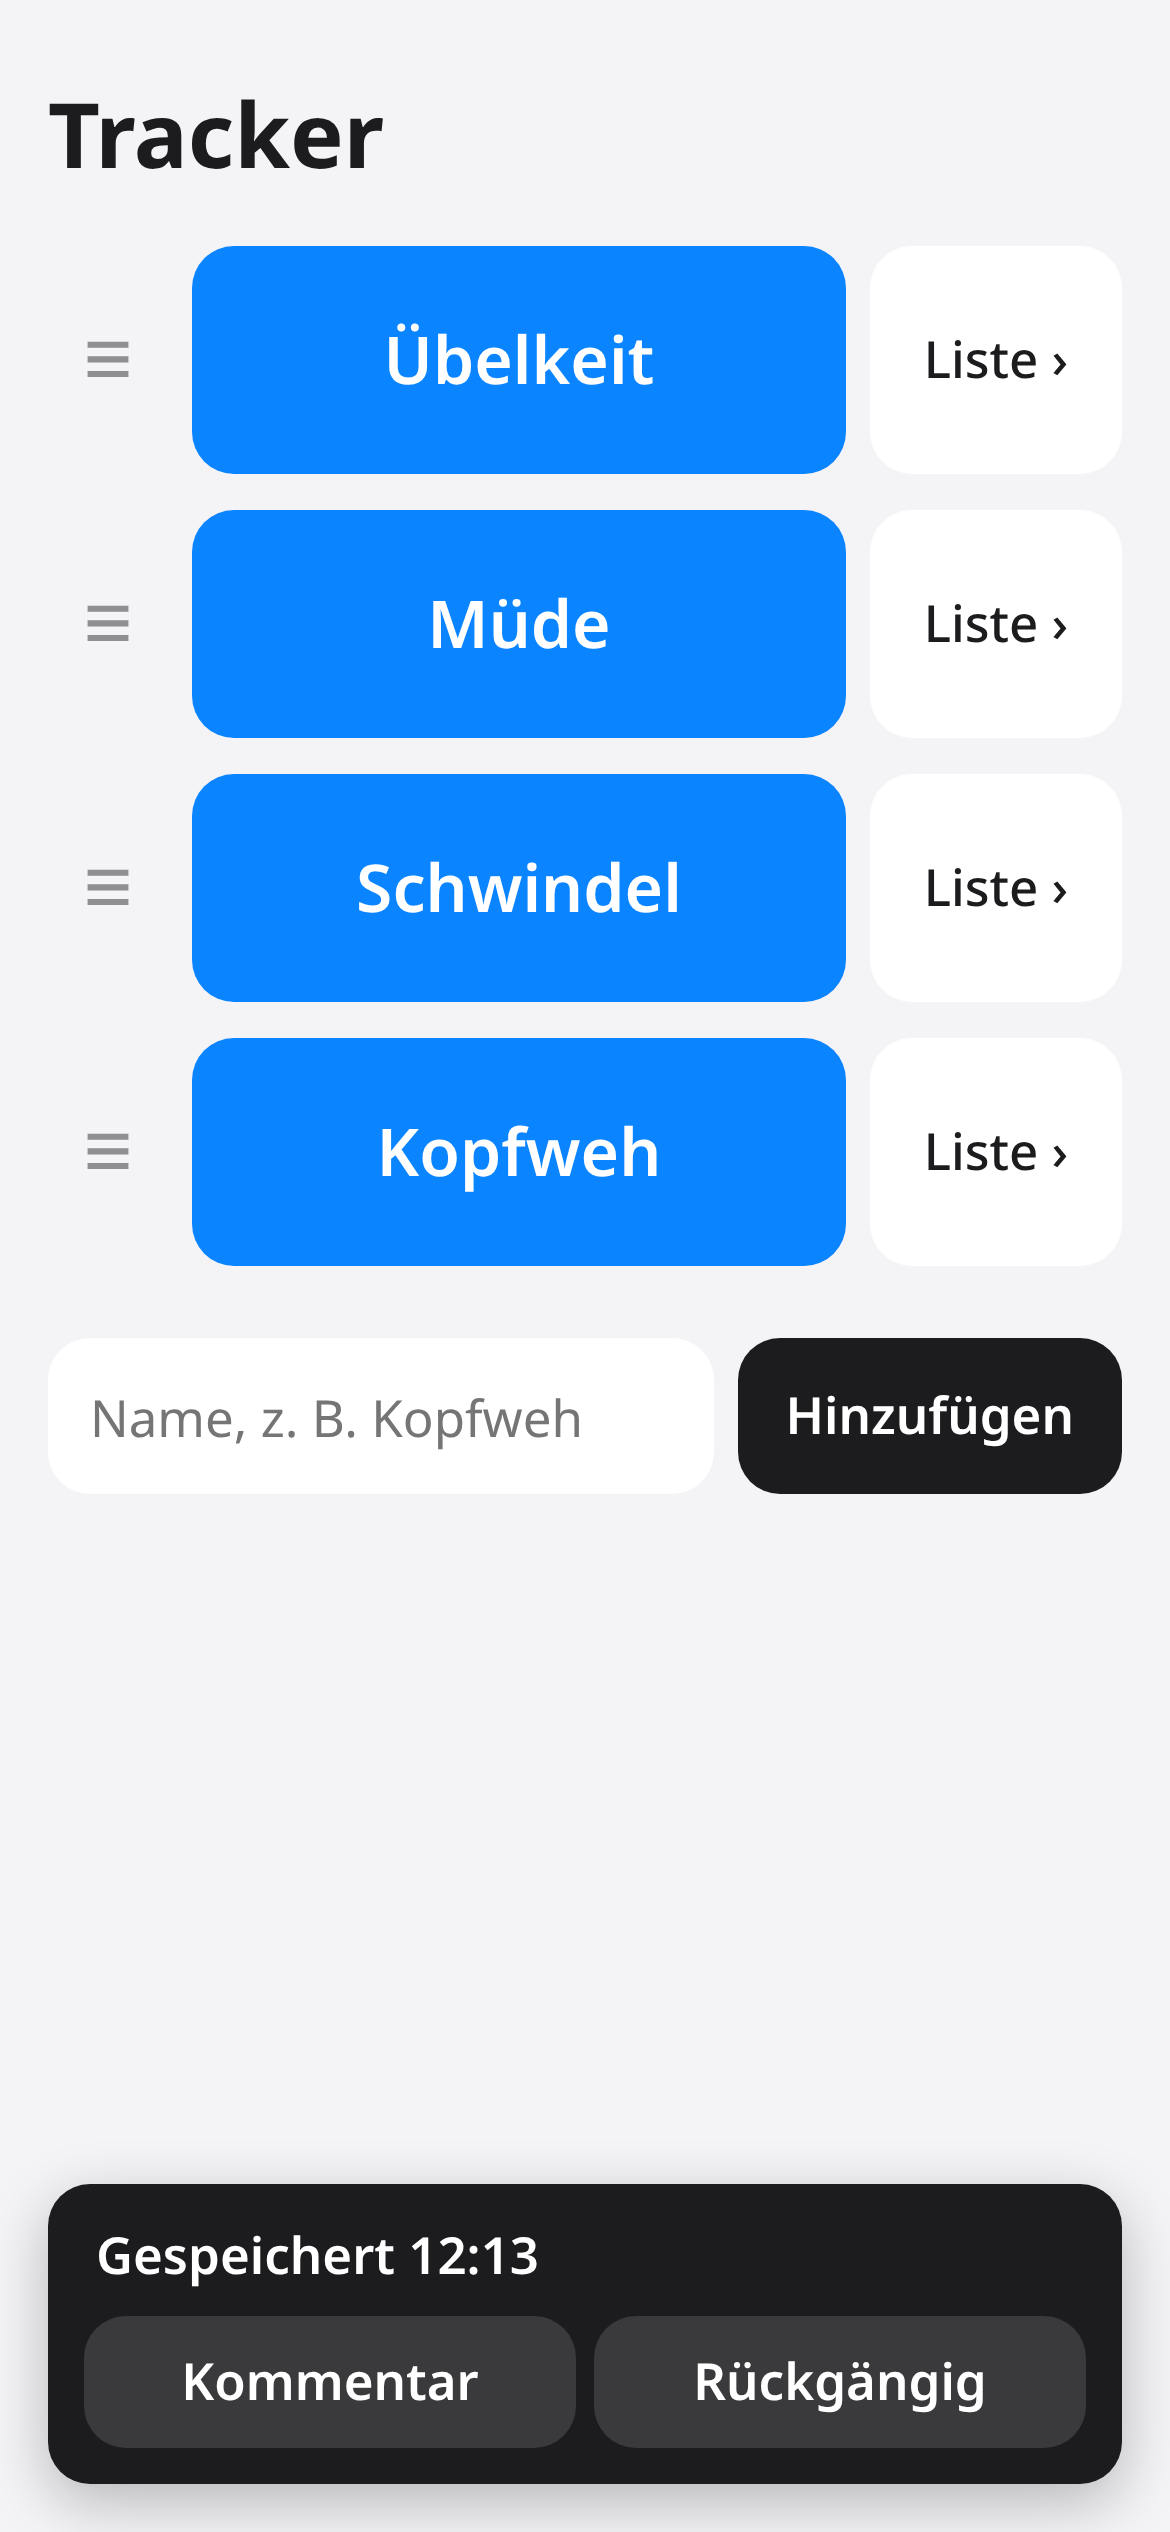
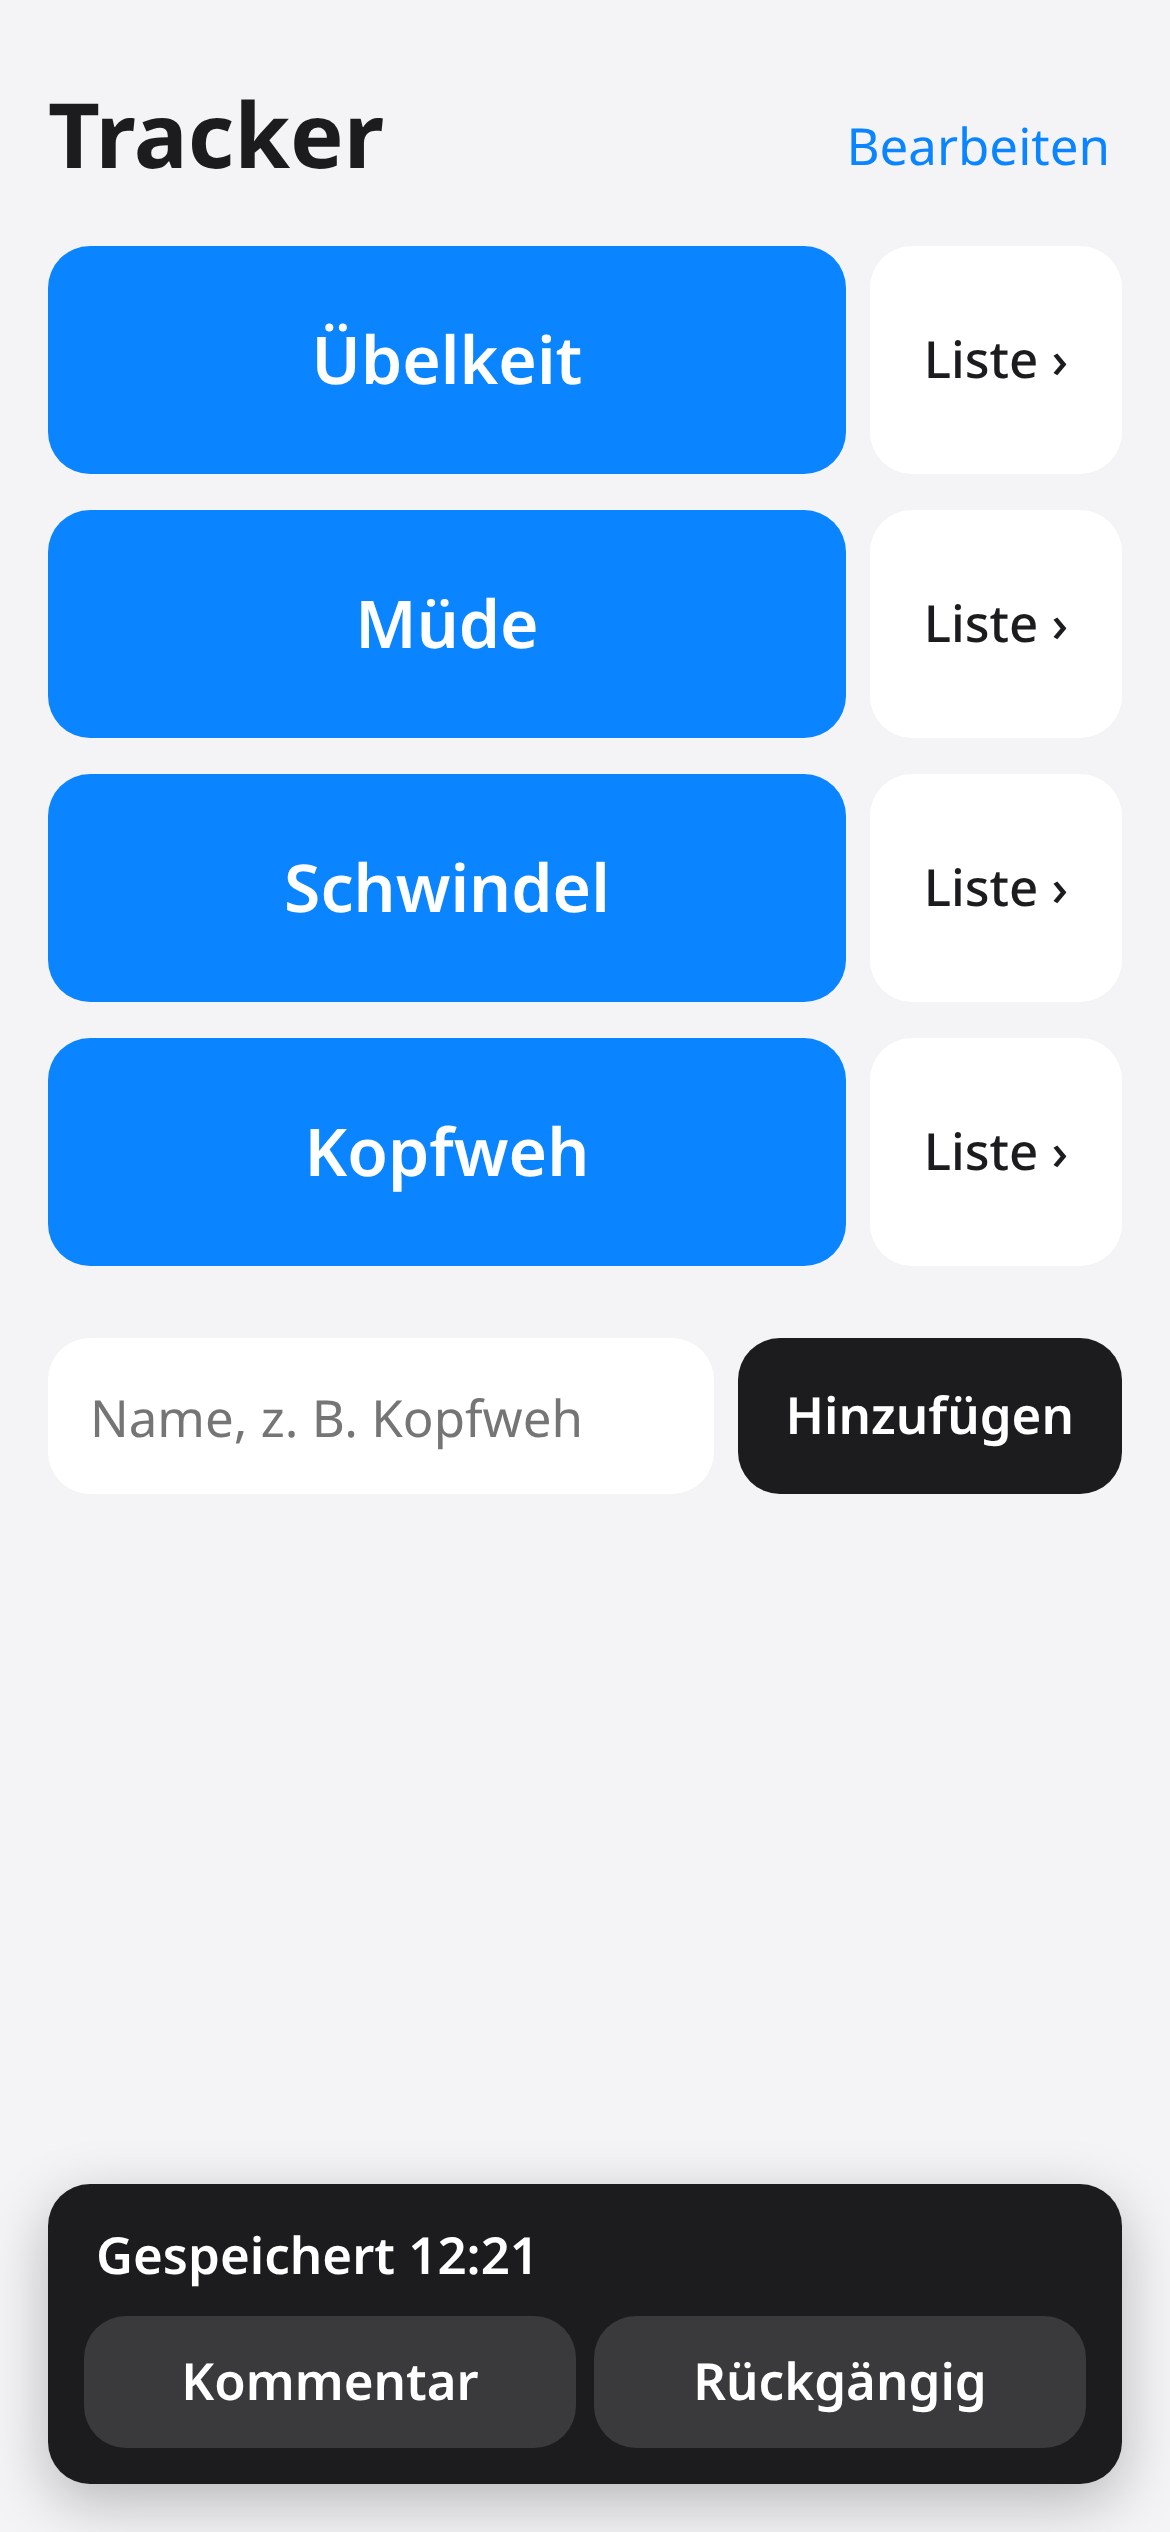
Griffe nur im Bearbeiten-Modus (Bearbeiten/Fertig); SW-Cache v5

diff --git a/style.css b/style.css
@@ -7,7 +7,7 @@ button { cursor: pointer; color: inherit; background: #fff; }
 .row { display: flex; gap: 8px; margin-bottom: 12px; position: relative; transition: transform .15s; }
 .row.dragging { transition: none; z-index: 1; }
 .row.dragging .track { box-shadow: 0 10px 24px rgba(0,0,0,.3); }
-.handle { display: flex; align-items: center; justify-content: center; width: 40px; flex: none; font-size: 28px; color: #8e8e93;
+.handle { display: none; align-items: center; justify-content: center; width: 40px; flex: none; font-size: 28px; color: #8e8e93;
   touch-action: none; user-select: none; -webkit-user-select: none; -webkit-touch-callout: none; cursor: grab; }
 .track { flex: 1; min-height: 76px; font-size: 22px; font-weight: 600; background: #0a84ff; color: #fff; padding: 12px; transition: transform .1s; word-break: break-word; }
 .track:active { transform: scale(.97); }
@@ -52,3 +52,7 @@ dialog .danger { margin-top: 12px; }
 #toast button { flex: 1; }
 #toast button { background: #3a3a3c; color: #fff; min-height: 44px; padding: 0 14px; font-weight: 600; }
 [hidden] { display: none !important; }
+header { display: flex; align-items: center; justify-content: space-between; }
+#editmode { font-size: 17px; padding: 10px 4px; }
+.editing .handle { display: flex; }
+.editing .track { opacity: .6; }

diff --git a/app.js b/app.js
@@ -51,6 +51,7 @@ function openEdit(id) {
 document.addEventListener('click', ev => {
   const t = ev.target.closest('button'); if (!t) return;
   const d = t.dataset;
+  if (d.track && $('main').classList.contains('editing')) return;  // im Bearbeiten-Modus nichts speichern
   if (d.track) {
     const id = Math.random().toString(36).slice(2), ts = Date.now();
     set(S.addEntry(state, d.track, ts, id));
@@ -60,6 +61,7 @@ document.addEventListener('click', ev => {
   } else if (d.open) { current = d.open; period = '7d'; render(); scrollTo(0, 0); }
   else if (d.period) { period = d.period; render(); }
   else if (d.edit) openEdit(d.edit);
+  else if (t.id === 'editmode') t.textContent = $('main').classList.toggle('editing') ? 'Fertig' : 'Bearbeiten';
   else if (t.id === 'back') { current = null; render(); }
   else if (t.id === 'edit-delete') {
     if (confirm('Diesen Eintrag löschen?')) { set(S.removeEntry(state, editing)); $('editor').close(); }

diff --git a/sw.js b/sw.js
@@ -1,5 +1,5 @@
 // Offline: erst Netz (am Browser-Cache vorbei, damit Updates sofort ankommen), bei Fehler aus dem Cache. Daten liegen in localStorage, nicht hier.
-const CACHE = 'tracker-v4';
+const CACHE = 'tracker-v5';
 const FILES = ['./', 'index.html', 'style.css', 'app.js', 'store.js', 'manifest.json', 'icons/icon-180.png', 'icons/icon-512.png'];
 self.addEventListener('install', e => { e.waitUntil(caches.open(CACHE).then(c => c.addAll(FILES))); self.skipWaiting(); });
 self.addEventListener('activate', e => e.waitUntil(caches.keys().then(ks => Promise.all(ks.filter(k => k !== CACHE).map(k => caches.delete(k)))).then(() => self.clients.claim())));

diff --git a/index.html b/index.html
@@ -16,7 +16,7 @@
 </head>
 <body>
 <section id="main">
-  <h1>Tracker</h1>
+  <header><h1>Tracker</h1><button id="editmode" class="link">Bearbeiten</button></header>
   <div id="buttons"></div>
   <form id="add">
     <input id="name" placeholder="Name, z.&nbsp;B. Kopfweh" maxlength="40" autocomplete="off" aria-label="Name des neuen Buttons">

diff --git a/test/e2e_drag.py b/test/e2e_drag.py
@@ -19,7 +19,14 @@ with sync_playwright() as p:
     pg.goto(URL); pg.evaluate('localStorage.clear()'); pg.reload()
     for n in ['Kopfweh', 'Müde', 'Schwindel', 'Übelkeit']:
         pg.fill('#name', n); pg.click('#add button')
-    pg.screenshot(path=f'{SHOTS}/08-main-mit-griffen.png')
+    # Normalmodus: keine Griffe
+    handles = pg.locator('.handle')
+    expect(pg.locator('#editmode')).to_have_text('Bearbeiten')
+    for i in range(4): expect(handles.nth(i)).to_be_hidden()
+    pg.screenshot(path=f'{SHOTS}/08-main-normal.png')
+    pg.click('#editmode'); expect(pg.locator('#editmode')).to_have_text('Fertig')
+    for i in range(4): expect(handles.nth(i)).to_be_visible()
+    pg.screenshot(path=f'{SHOTS}/11-main-bearbeiten.png')
 
     # Kopfweh am Griff nach unten zwischen Schwindel und Übelkeit ziehen
     h = pg.locator('.row', has_text='Kopfweh').locator('.handle').bounding_box()
@@ -44,7 +51,13 @@ with sync_playwright() as p:
     touch('touchEnd')
     expect(pg.locator('.track')).to_have_text(['Übelkeit', 'Müde', 'Schwindel', 'Kopfweh'])
 
-    pg.reload()
+    # Im Bearbeiten-Modus speichert ein Tipp nichts
+    pg.locator('.track', has_text='Müde').tap(); time.sleep(0.2)
+    assert stored()['entries'] == [] and pg.locator('#toast').is_hidden()
+    pg.click('#editmode'); expect(pg.locator('#editmode')).to_have_text('Bearbeiten')
+    for i in range(4): expect(handles.nth(i)).to_be_hidden()
+    pg.click('#editmode'); pg.reload()   # Modus wird nicht gespeichert
+    expect(pg.locator('#editmode')).to_have_text('Bearbeiten'); expect(handles.first).to_be_hidden()
     expect(pg.locator('.track')).to_have_text(['Übelkeit', 'Müde', 'Schwindel', 'Kopfweh'])
     assert not pg.locator('.row[style*=transform]').count()
 
